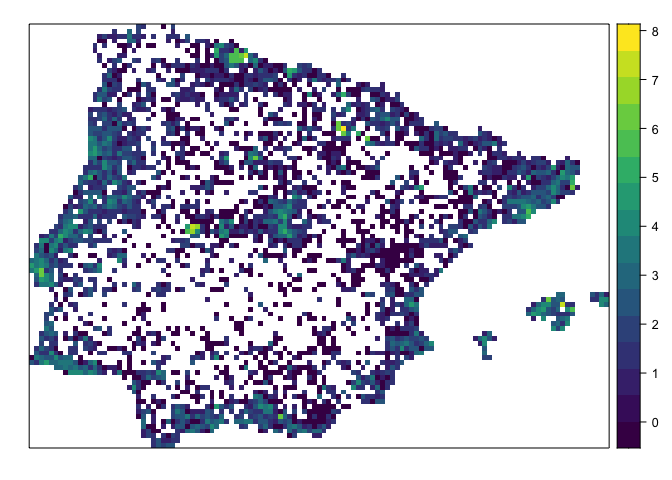
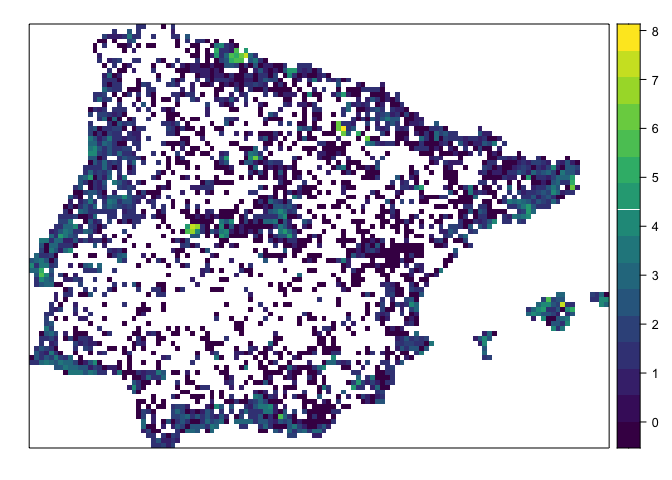
Update summary

diff --git a/Manuscript/Summary/Summary.md b/Manuscript/Summary/Summary.md
@@ -1,9 +1,9 @@
 
 # Summary of the IberianBees database
 
-The Iberian Bee Database contains **103464 entries** of bee occurrences
+The Iberian Bee Database contains **87684 entries** of bee occurrences
 over the peninsula and nearby islands. We have at least one record of
-**925 species** out of the **1055 species** known to occur in the
+**923 species** out of the **1066 species** known to occur in the
 Iberian Peninsula.
 
 We retained only valid, updated species names. All records have
